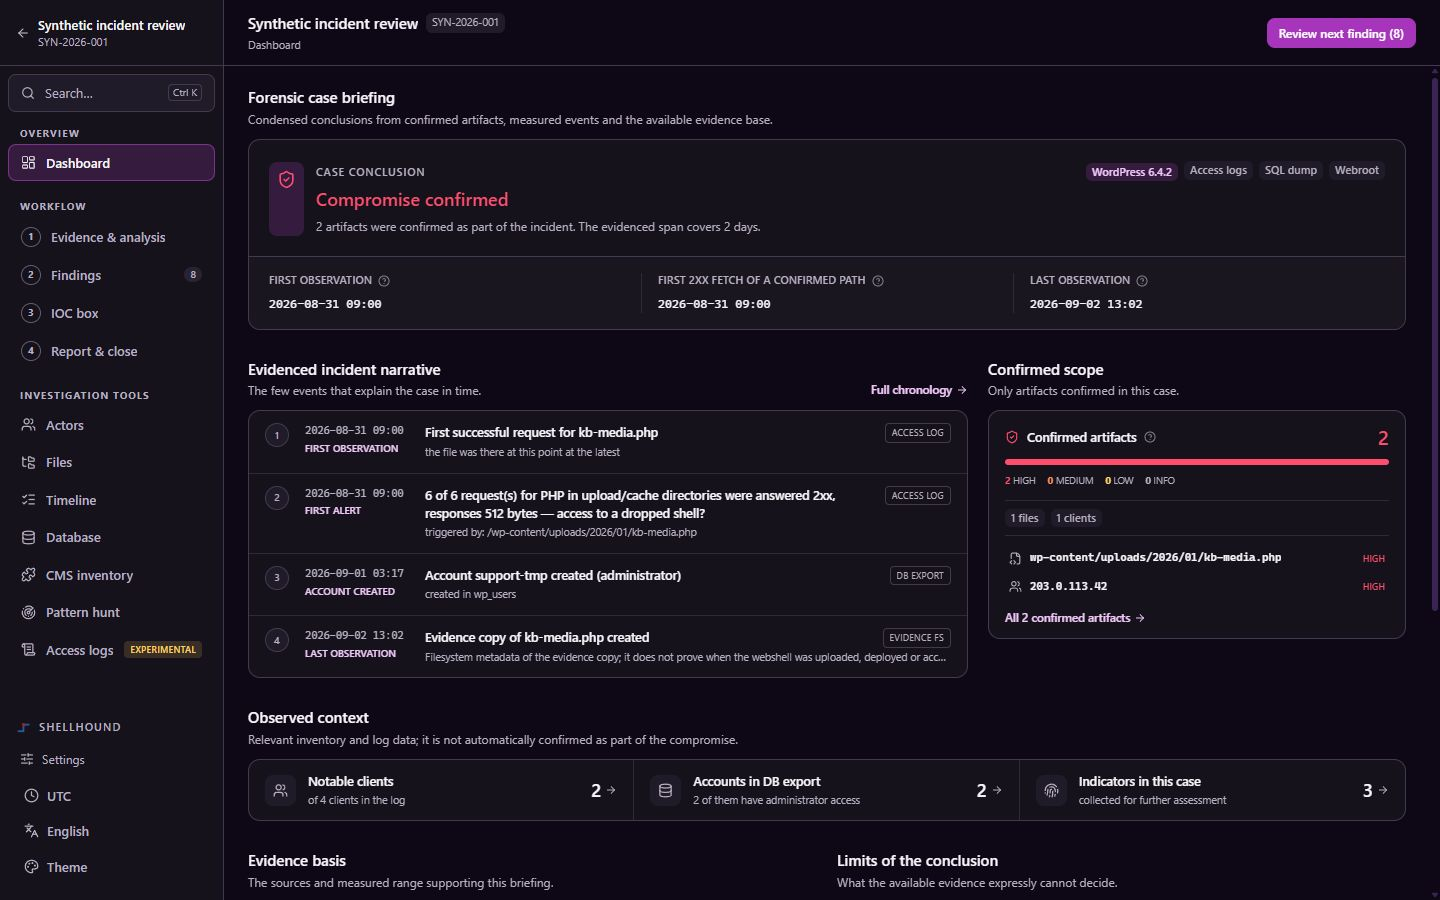
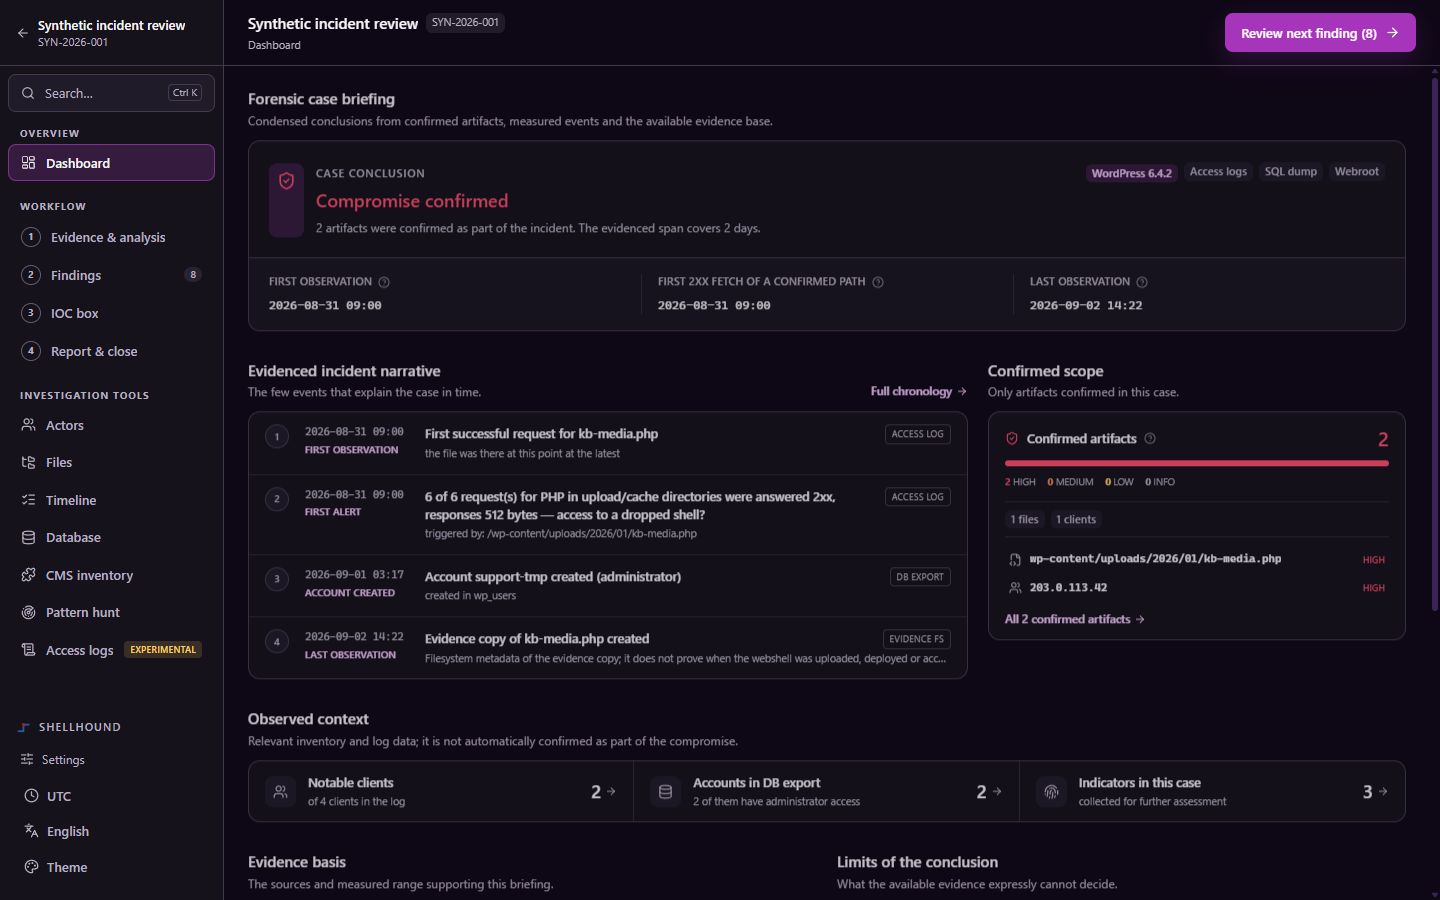
open next finding from workflow actions

diff --git a/web/src/views/Findings.tsx b/web/src/views/Findings.tsx
@@ -24,7 +24,7 @@ import { useEffect, useMemo, useRef, useState } from 'react'
 import { useQuery } from '@tanstack/react-query'
 import { useVirtualizer } from '@tanstack/react-virtual'
 import {
-  BellOff, BookmarkPlus, Bug, Check, ChevronDown, ChevronRight, CircleDashed, Code,
+  ArrowRight, BellOff, BookmarkPlus, Bug, Check, ChevronDown, ChevronRight, CircleDashed, Code,
   Crosshair, Database, DoorOpen, Eye, EyeOff, FileCog, FileSearch,
   Folder, FolderOpen, Keyboard, KeyRound, ListFilter, Radar, X,
 } from 'lucide-react'
@@ -46,7 +46,7 @@ import { KIND_ICON } from '../artifactKinds'
 import { TriageFollowUp } from '../components/triage'
 import { useTriage } from '../components/useTriage'
 import { artifactNoun, categorize, explainRule, type Category } from '../explain'
-import { nextReviewArtifact } from '../reviewQueue'
+import { firstReviewArtifact, nextReviewArtifact } from '../reviewQueue'
 import type { Navigate } from '../App'
 
 // One icon per category. The category is the structure one starts from --
@@ -341,14 +341,33 @@ export function Findings({ slug, gotoView }: {
     return [...byCat.values()].sort((a, b) => a.cat.order - b.cat.order)
   }, [data, tr])
   const reviewQueue = useMemo(() => orderedQueue(categories, roots), [categories, roots])
+  const firstReview = useMemo(() => firstReviewArtifact(reviewQueue), [reviewQueue])
+  const reviewableCount = useMemo(() => reviewQueue.filter((artifact) =>
+    artifact.triage === 'new' || artifact.triage === 'reviewed').length, [reviewQueue])
 
   useEffect(() => {
-    const requested = new URLSearchParams(location.search).get('artifact')
+    const params = new URLSearchParams(location.search)
+    if (params.get('next') === '1') {
+      if (firstReview) {
+        setQueueComplete(false)
+        setSelected(firstReview)
+        const url = new URL(location.href)
+        url.searchParams.set('artifact', firstReview.artifact)
+        url.searchParams.delete('next')
+        history.replaceState(null, '', url)
+      } else if (data) {
+        const url = new URL(location.href)
+        url.searchParams.delete('next')
+        history.replaceState(null, '', url)
+      }
+      return
+    }
+    const requested = params.get('artifact')
     if (!requested || selected?.artifact === requested) return
     const found = categories.flatMap((category) => category.artifacts)
       .find((artifact) => artifact.artifact === requested)
     if (found) setSelected(found)
-  }, [categories, selected?.artifact])
+  }, [categories, data, firstReview, selected?.artifact])
 
   const openArtifact = (artifact: Artifact) => {
     t.clearCollected()
@@ -356,6 +375,7 @@ export function Findings({ slug, gotoView }: {
     setSelected(artifact)
     const url = new URL(location.href)
     url.searchParams.set('artifact', artifact.artifact)
+    url.searchParams.delete('next')
     history.replaceState(null, '', url)
   }
 
@@ -551,7 +571,7 @@ export function Findings({ slug, gotoView }: {
   return (
     <div className="flex h-[calc(100vh-150px)] flex-col gap-3 md:h-[calc(100vh-110px)]">
       <div className="flex flex-wrap items-center gap-3">
-        <div className="mr-auto min-w-48">
+        <div className={clsx('min-w-48', !firstReview && 'mr-auto')}>
           <Tooltip title={tr('dashboard.artifacts')}
             body={tr('findings.title.body')}
             hint={tr('findings.title.hint')}>
@@ -565,6 +585,13 @@ export function Findings({ slug, gotoView }: {
             })}
           </div>
         </div>
+        {firstReview && (
+          <Button variant="primary" onClick={() => openArtifact(firstReview)}
+            className="mr-auto shrink-0 px-4 py-2 text-[13px] font-semibold">
+            {tr('case.action.reviewNext', { n: reviewableCount })}
+            <ArrowRight size={15} />
+          </Button>
+        )}
         <div className="min-w-[16rem] flex-1 sm:max-w-md">
           <SearchInput value={search} onChange={setSearch} placeholder={tr('findings.search')} />
         </div>

diff --git a/web/src/App.tsx b/web/src/App.tsx
@@ -4,7 +4,7 @@ import { lazy, Suspense, useCallback, useEffect, useMemo, useState } from 'react
 import { QueryClientProvider, useQuery } from '@tanstack/react-query'
 import clsx from 'clsx'
 import {
-  Activity, ArrowLeft, Box, Bug, Database, FileCheck2, FolderCog, FolderTree,
+  Activity, ArrowLeft, ArrowRight, Box, Bug, Database, FileCheck2, FolderCog, FolderTree,
   LayoutDashboard, ListChecks, Puzzle, Radar, ScrollText, Search,
   SlidersHorizontal, Users,
 } from 'lucide-react'
@@ -46,7 +46,7 @@ export type ViewId =
 
 export type ViewParams = Partial<Record<
   | 'severity' | 'triage' | 'source' | 'search' | 'artifact' | 'retired' | 'request'
-  | 'actor' | 'section', string
+  | 'actor' | 'section' | 'next', string
 >>
 export type Navigate = (view: ViewId, params?: ViewParams) => void
 
@@ -219,7 +219,7 @@ function CaseShell({ slug, onBack }: { slug: string; onBack: () => void }) {
     url.searchParams.set('view', next)
     for (const key of [
       'severity', 'triage', 'source', 'search', 'artifact', 'retired', 'request',
-      'actor', 'section',
+      'actor', 'section', 'next',
     ] as const) {
       const value = params[key]
       if (value) url.searchParams.set(key, value)
@@ -249,6 +249,17 @@ function CaseShell({ slug, onBack }: { slug: string; onBack: () => void }) {
   const decisionTotal = openArtifacts + decidedArtifacts
   const completion = decisionTotal ? decidedArtifacts / decisionTotal : 0
   const workflowAction = deriveWorkflowAction(caseInfo, jobs, dashboard)
+
+  const followWorkflowAction = () => {
+    if (!workflowAction) return
+    if (workflowAction.id === 'triage') {
+      // Findings resolves this marker against its real displayed queue. That
+      // keeps this shortcut identical to the button inside the workbench.
+      gotoView('findings', { triage: 'new,reviewed', next: '1' })
+      return
+    }
+    gotoView(workflowAction.view)
+  }
 
   return (
     <div className="h-full">
@@ -284,10 +295,18 @@ function CaseShell({ slug, onBack }: { slug: string; onBack: () => void }) {
             </div>
             {view !== 'dashboard' && <div className="w-36"><ProgressBar value={completion} /></div>}
             {workflowAction && view !== workflowAction.view && (
-              <button onClick={() => gotoView(workflowAction.view,
-                workflowAction.id === 'triage' ? { triage: 'new,reviewed' } : {})}
-                className="rounded-lg bg-[var(--primary)] px-3 py-1.5 text-[12px] font-semibold text-[var(--primary-text)] transition-colors hover:bg-[var(--primary-hover)] cursor-pointer">
+              <button type="button" onClick={followWorkflowAction}
+                className={clsx(
+                  'group inline-flex cursor-pointer items-center justify-center gap-2 rounded-lg bg-[var(--primary)] font-semibold text-[var(--primary-text)] transition-all hover:bg-[var(--primary-hover)] disabled:cursor-wait disabled:opacity-60',
+                  view === 'dashboard'
+                    ? 'px-4 py-2.5 text-[13px] shadow-[0_8px_24px_color-mix(in_srgb,var(--primary)_20%,transparent)]'
+                    : 'px-3 py-1.5 text-[12px]')}
+              >
                 {tr(workflowAction.label, { n: workflowAction.count ?? 0 })}
+                {workflowAction.id === 'triage' && (
+                  <ArrowRight size={15}
+                    className="transition-transform group-hover:translate-x-0.5" />
+                )}
               </button>
             )}
           </div>
@@ -448,7 +467,7 @@ function Root() {
     const url = new URL(location.href)
     url.searchParams.delete('case')
     url.searchParams.delete('view')
-    for (const key of ['severity', 'triage', 'source', 'search', 'artifact', 'retired']) {
+    for (const key of ['severity', 'triage', 'source', 'search', 'artifact', 'retired', 'next']) {
       url.searchParams.delete(key)
     }
     history.pushState(null, '', url)

diff --git a/web/src/views/Findings.test.tsx b/web/src/views/Findings.test.tsx
@@ -3,7 +3,7 @@ import userEvent from '@testing-library/user-event'
 import { beforeEach, describe, expect, it, vi } from 'vitest'
 import { api, post, type ArtifactContext, type FindingsResponse, type TriageResult } from '../api'
 import { renderWithProviders } from '../test/setup'
-import { nextReviewArtifact } from '../reviewQueue'
+import { firstReviewArtifact, nextReviewArtifact } from '../reviewQueue'
 import { Findings } from './Findings'
 
 vi.mock('../api', async (original) => ({
@@ -82,6 +82,13 @@ describe('save-and-next queue ordering', () => {
   it('does not wrap when the filtered queue is complete', () => {
     expect(nextReviewArtifact(queue, 'next', [])).toBeNull()
   })
+
+  it('opens untouched artifacts before returning to skipped ones', () => {
+    expect(firstReviewArtifact(queue)?.artifact).toBe('first')
+    expect(firstReviewArtifact(queue.slice(1))?.artifact).toBe('next')
+    expect(firstReviewArtifact(queue.slice(1, 3))?.artifact).toBe('propagated')
+    expect(firstReviewArtifact(queue.slice(2, 3))).toBeNull()
+  })
 })
 
 describe('save-and-next Findings integration', () => {
@@ -134,6 +141,28 @@ describe('save-and-next Findings integration', () => {
     expect(post).toHaveBeenCalledWith('/api/cases/case-1/triage', {
       artifacts: ['client-one'], state: 'reviewed', note: '', propagate: undefined,
     })
+  })
+
+  it('opens the next finding directly from the workbench action', async () => {
+    history.replaceState(null, '', '/?case=case-1&view=findings&search=client')
+    renderWithProviders(<Findings slug="case-1" gotoView={vi.fn()} />)
+
+    await userEvent.click(await screen.findByRole('button', {
+      name: 'Review next finding (2)',
+    }))
+
+    await waitFor(() => expect(new URL(location.href).searchParams.get('artifact'))
+      .toBe('client-one'))
+  })
+
+  it('resolves the Dashboard handoff against the same displayed queue', async () => {
+    history.replaceState(null, '',
+      '/?case=case-1&view=findings&search=client&next=1')
+    renderWithProviders(<Findings slug="case-1" gotoView={vi.fn()} />)
+
+    await waitFor(() => expect(new URL(location.href).searchParams.get('artifact'))
+      .toBe('client-one'))
+    expect(new URL(location.href).searchParams.get('next')).toBeNull()
   })
 
   it('closes at the end without wrapping and reports the filtered queue complete', async () => {

diff --git a/web/src/reviewQueue.ts b/web/src/reviewQueue.ts
@@ -1,5 +1,15 @@
 import type { TriageState } from './api'
 
+/** Start with an untouched artifact. Items deliberately skipped earlier stay
+ * available, but only become the fallback after the new work is exhausted. */
+export function firstReviewArtifact<T extends { artifact: string; triage: TriageState }>(
+  ordered: T[],
+): T | null {
+  return ordered.find((artifact) => artifact.triage === 'new')
+    ?? ordered.find((artifact) => artifact.triage === 'reviewed')
+    ?? null
+}
+
 /** Pick only a later, still-reviewable artifact. There is intentionally no
  * wrap: reaching the end is useful completion feedback, not a loop. */
 export function nextReviewArtifact<T extends { artifact: string; triage: TriageState }>(

diff --git a/CHANGELOG.md b/CHANGELOG.md
@@ -25,6 +25,9 @@ All notable changes to SHELLHOUND. Format after
   **Skip for now**, and **False positive: Discard**, with persistent incident,
   caution, and safe color cues. The middle choice retains the existing
   `reviewed` state and deliberately leaves the artifact open for later review.
+- Made **Review next finding** open the next untouched artifact directly from
+  both the case header and Findings workbench, falling back to deliberately
+  skipped items only after the new queue is exhausted.
 
 ### Added — investigation workbench workflow
 
